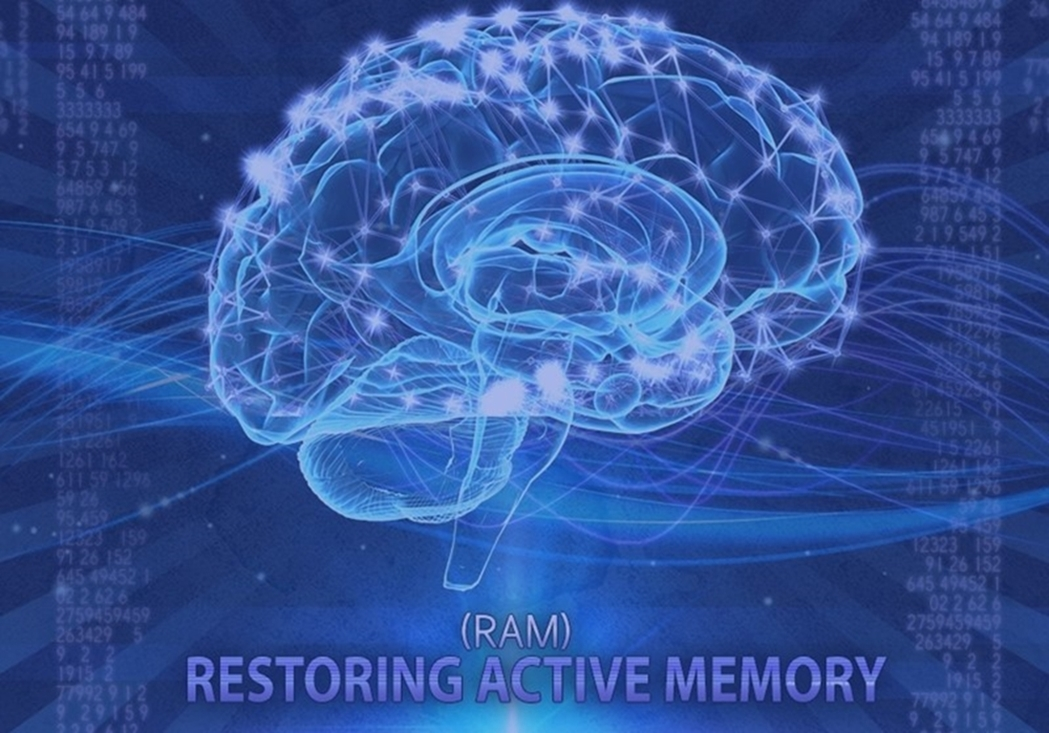
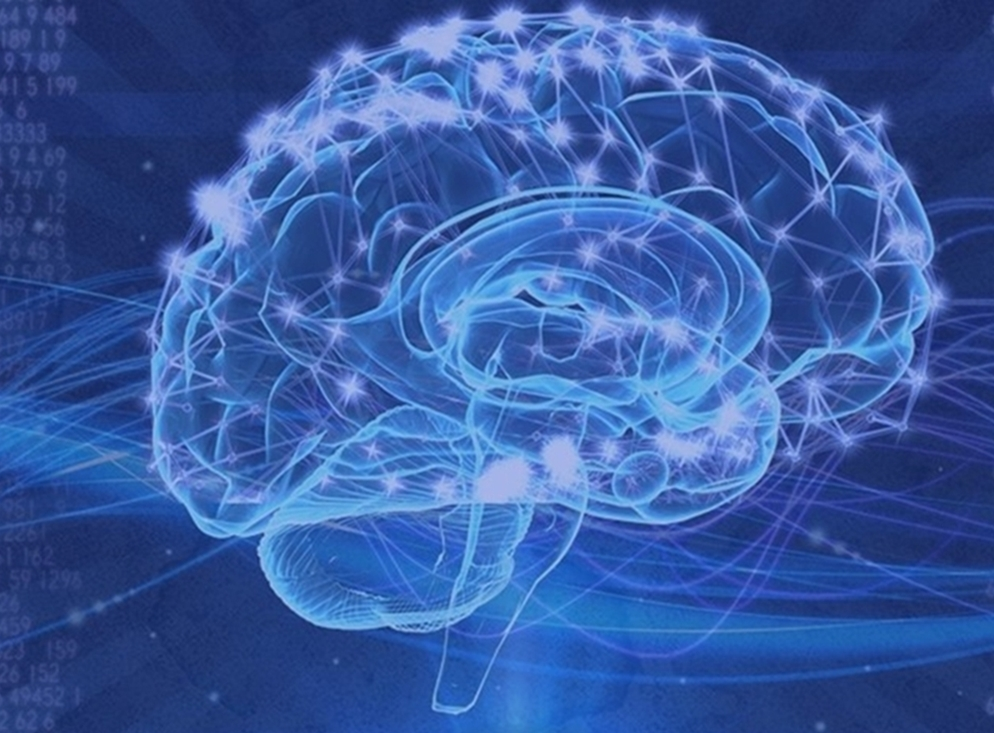
404 error page updated, carousel photo replaced

diff --git a/404-page.html b/404-page.html
@@ -136,9 +136,9 @@
     <!--Modal ends------------------------------------------------------------------>
 
     <!---Main content--------------------------------------------------------------------------->
-    <div class="container fluid error-page">   
-        <div class="row">
-            <div class="col text-center">
+    <div class="container-fluid h-100 error-page">   
+        <div class="row h-100 align-items-center">
+            <div class="col-12 text-center">
             <h5>404 ERROR</h5> <br>
                <p> Let's go back <a class="nav-link" href="index.html">home. </a></p>
             </div>
@@ -150,7 +150,7 @@
 </body>
 
 <!---------Footer------------>
-<footer class="page-footer">
+<footer class="page-footer fixed-bottom">
         <div class="container-fluid">
                             <div class="row justify-content-around">
                                 <div class="col-sm-12 col-lg-4  ">

diff --git a/assets/css/style.css b/assets/css/style.css
@@ -634,7 +634,7 @@ padding-left: 20px;
     }
 
 
-    .carousel-caption {
+    .carousel-caption>h6 {
         font-size: 30px !important;
     }
     .logo-partners>img {
